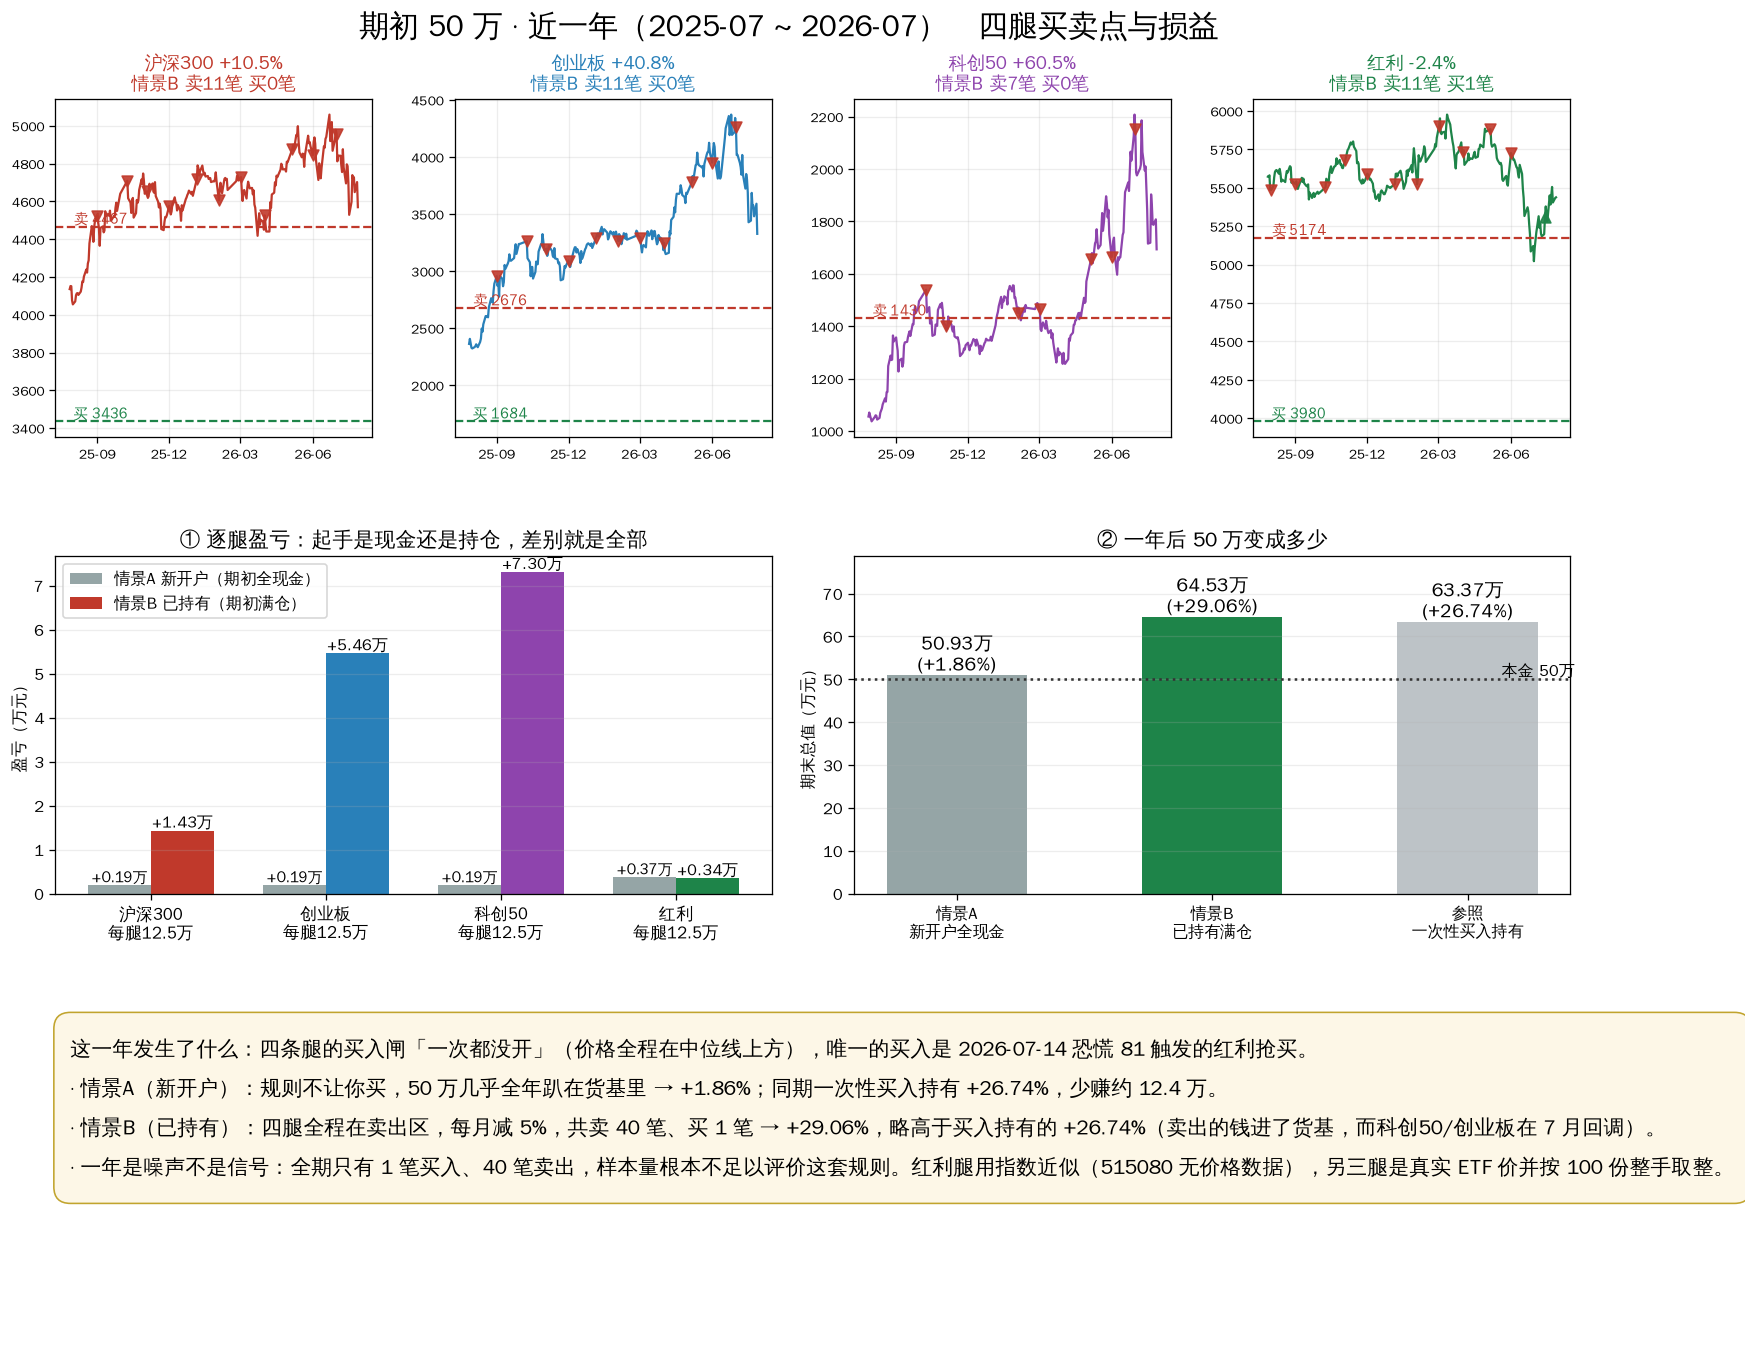
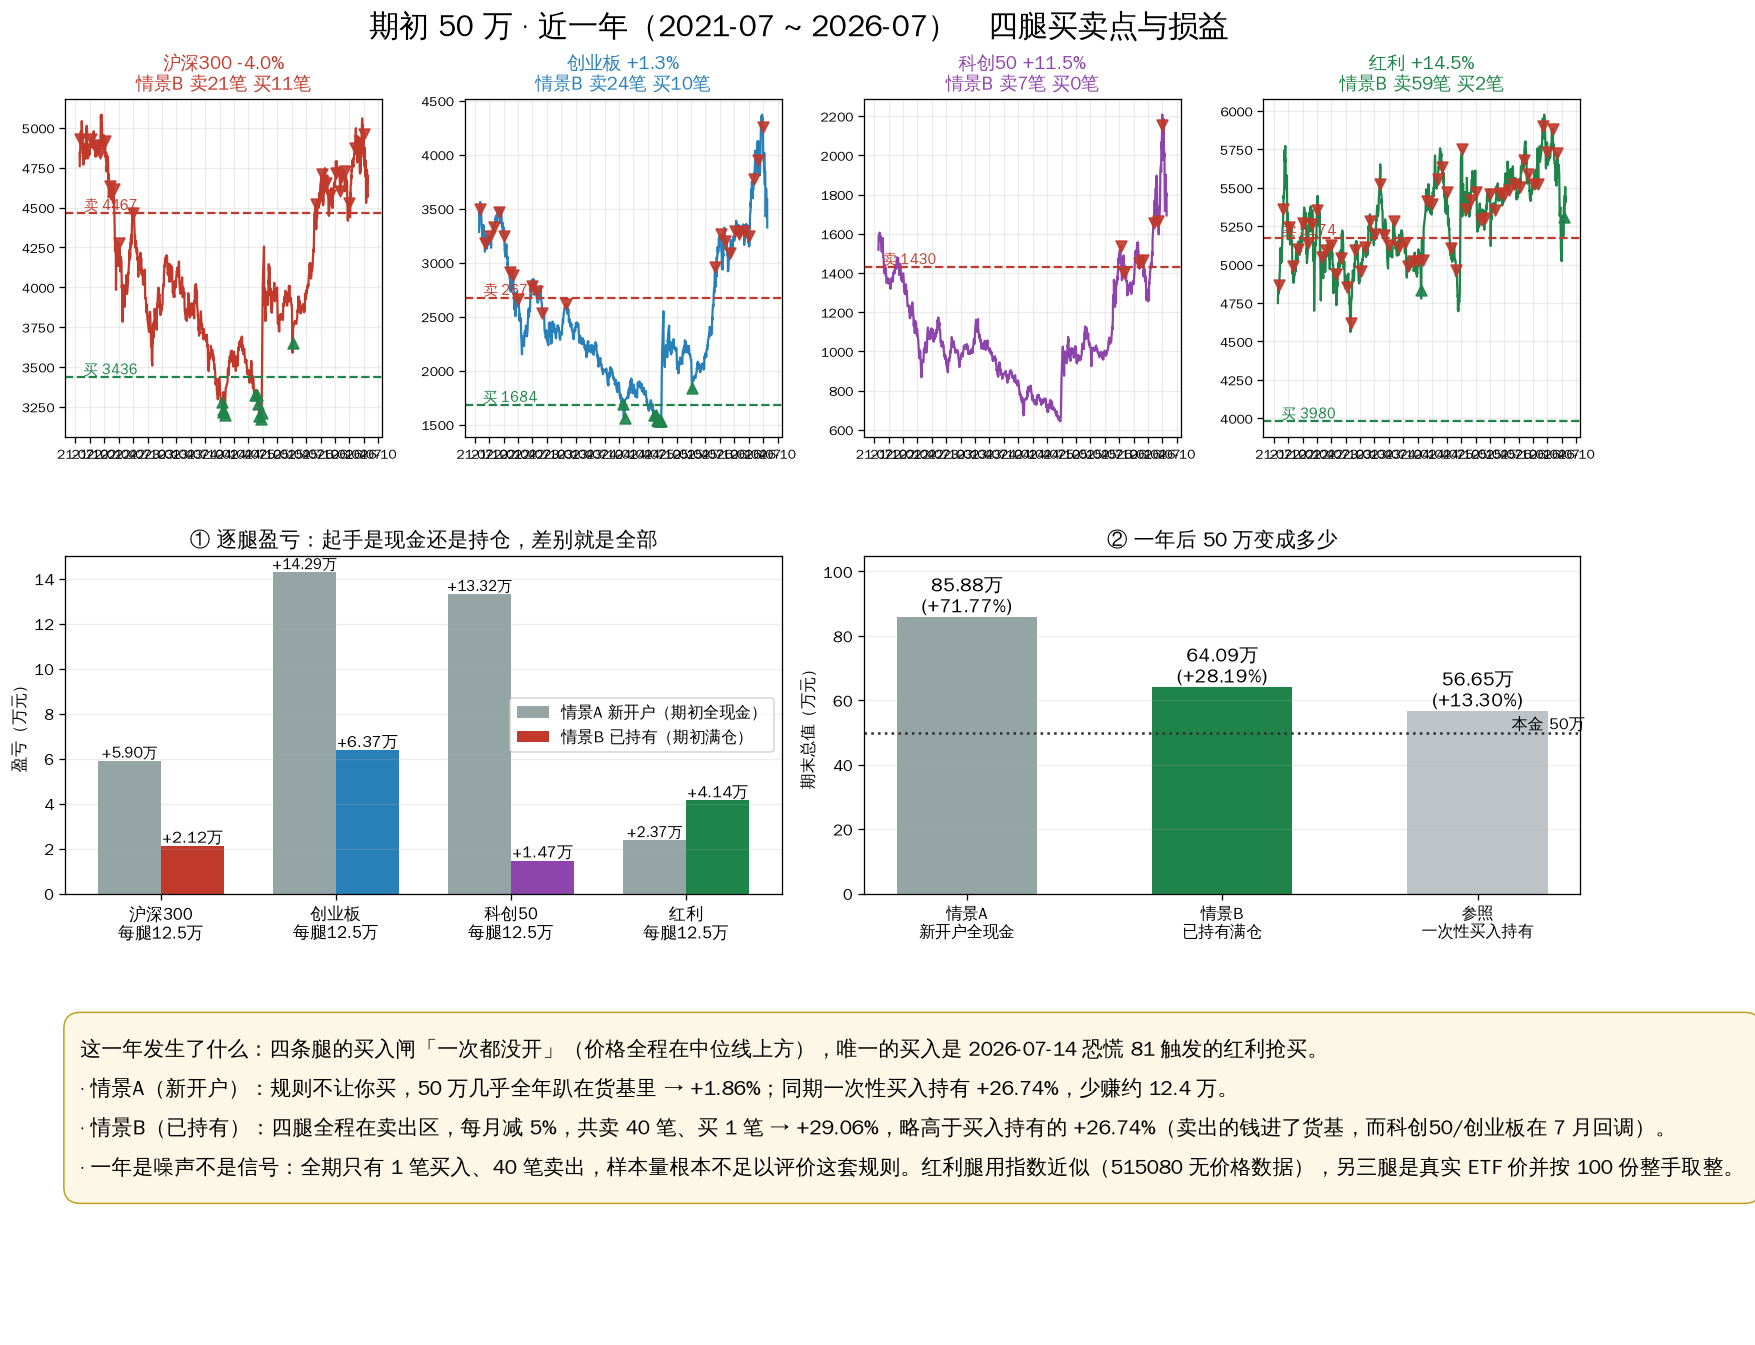
近五年损益：脚本通用化 + 资金曲线 + 分年 + 起点敏感性
owner「画一下近五年的图，算一下近五年策略收益，还是期初 50 万空仓」。
one_year_pnl.py → pnl_window.py（--months 通用），新增组合资金曲线、分年收益表、
起点敏感性；出图 results/pnl_5y.png。

近五年（20210728~20260728）期初 50 万空仓：
- 情景A 空仓起手 85.88 万 +71.77%（年化 11.4%）
- 情景B 满仓起手 64.09 万 +28.19%（年化 5.1%）
- 一次性买入持有 56.65 万 +13.30%（年化 2.5%）
成交 85 笔，买入集中在 2024-01/02（含 20240123 恐慌 78 的创业板单笔 6.49 万）
与 2024-08/09。

分年（情景A vs 买持）：2021 +0.6/+1.8｜2022 +1.5/−20.0｜2023 +1.6/−7.1｜
2024 +21.1/+16.2｜2025 +26.9/+21.5｜2026至7月 +7.7/+6.6。

必须并记的两条诚实读数：
① 起点敏感性——3/4/5 年窗口 A 空仓分别 +66.8%/+69.3%/+71.8%，绝对收益几乎不变，
   说明往前多加的 1~2 年只贡献了货基利息，全部收益来自 2024-01 抄底及其后持有，
   有效样本实质是 1 个 episode。
② 与近一年结论方向相反（近一年 A 空仓 +1.86% 远低于 B 满仓 +29.06%）——
   不是策略变好变坏，是起点落在周期哪个位置。与 V1 回归结论一致：
   超额是买入持有强度的函数（本窗买持年化仅 2.5%，落在超额高的区间）。

另记一条数据边界：用真实 ETF 价的四腿组合可回测起点最早 20201116（588000 上市日），
最长窗口约 5.7 年；72 个月以上窗口因此跑不出来，这本身印证 V2 的可得性发现。

Claude-Session: https://claude.ai/code/session_01FN6Uq28z4oa3Sfy64qdYxy

diff --git a/scripts/analysis/pnl_window.py b/scripts/analysis/pnl_window.py
@@ -1,5 +1,5 @@
 # -*- coding: utf-8 -*-
-"""期初 50 万 · 近一年实盘化损益（owner 2026-08-04）
+"""期初 N 万 · 任意回看窗口的实盘化损益（owner 2026-08-04，--months 可调）
 
 与回测脚本的区别——这里**尽量贴实盘**：
   · 三腿用**真实 ETF 收盘价**（510300 / 159915 / 588000，来自 results/fund_close_dump.csv）
@@ -7,7 +7,10 @@
   · 闲置现金按货基 1.5%/年（V2 实测近三年真实档位，比回测常用的 2% 保守）。
   · 信号次日收盘成交（exec_lag=1），与生产口径一致。
 
-两个情景必须并报——**这一年的结果几乎完全由起手状态决定**：
+两个情景必须并报——**短窗结果几乎完全由起手状态决定，且方向会随窗口翻转**：
+  近 12 个月：空仓起手 +1.86% vs 满仓起手 +29.06%（买入闸全年没开）
+  近 60 个月：空仓起手 +71.77% vs 满仓起手 +28.19%（2024-01 抄在底部）
+这不是策略变好变坏，是起点落在周期的哪个位置。
   A 新开户：期初 50 万全现金
   B 已持有：期初已按四腿满仓（承接既有持仓）
 
@@ -187,7 +190,19 @@ def main() -> None:
             r = run_leg(d, None, px, fmap, nm, start, end, MODE[nm], c0, shares0=s0)
             tot_v += r["value"]; tot_tr += [{"腿": nm, **t} for t in r["trades"]]
             rows.append((nm, r))
-        SC[scen[0]] = dict(rows=rows, trades=tot_tr, total=tot_v)
+        # 组合资金曲线：各腿按共同日历对齐，缺失日用该腿最近可得值（腿间日历差 ≤2 天）
+        ser = {nm: pd.Series(r["curve"], index=list(r["dates"])) for nm, r in rows}
+        cal = sorted(set().union(*[set(x.index) for x in ser.values()]))
+        eq = []
+        for dd_ in cal:
+            v = 0.0
+            for nm in ser:
+                x = ser[nm]
+                v += float(x[dd_]) if dd_ in x.index else float(
+                    x[x.index <= dd_].iloc[-1] if (x.index <= dd_).any() else x.iloc[0])
+            eq.append(v)
+        SC[scen[0]] = dict(rows=rows, trades=tot_tr, total=tot_v,
+                           cal=cal, eq=np.array(eq))
         for nm, r in rows:
             pnl = r["value"] - per
             print(f"  {nm:8s}({ETF_NAME[nm]})  期末 {r['value']:>10,.0f} 元  "
@@ -215,31 +230,61 @@ def main() -> None:
         tot += per * r
         print(f"  {nm:8s} {r - 1:+7.2%}" + ("（全收益口径含分红）" if nm == "红利" else ""))
     print(f"  {'合计':8s} 期末 {tot:,.0f} 元　盈亏 {tot - a.capital:+,.0f}（**{tot / a.capital - 1:+.2%}**）")
+
+    # 买入持有资金曲线（同一日历）
+    calA = SC["A"]["cal"]
+    bh_eq = np.zeros(len(calA))
+    for nm in legs:
+        d = legs[nm]["d"]
+        base = (d["c_tr"].ffill() if "c_tr" in d.columns and d["c_tr"].notna().any() else d["c"])
+        sr = pd.Series(base.values, index=d.trade_date.values).ffill()
+        i0v = float(sr[sr.index >= start].iloc[0])
+        for j, dd_ in enumerate(calA):
+            v = sr[sr.index <= dd_]
+            bh_eq[j] += per * (float(v.iloc[-1]) / i0v if len(v) else 1.0)
+
+    # 分年收益
+    print(f"\n{'=' * 104}\n分年收益（情景A 空仓起手 vs 买入持有）\n{'=' * 104}")
+    ea = pd.Series(SC["A"]["eq"], index=calA)
+    eb = pd.Series(bh_eq, index=calA)
+    yrs_ = sorted({x[:4] for x in calA})
+    print(f"  {'年份':>8s}{'情景A 期末':>14s}{'当年收益':>10s}{'买入持有':>10s}{'差':>9s}")
+    for y in yrs_:
+        m_ = [x for x in calA if x[:4] == y]
+        if len(m_) < 5:
+            continue
+        p0a = float(ea[ea.index < m_[0]].iloc[-1]) if (ea.index < m_[0]).any() else float(ea.iloc[0])
+        p0b = float(eb[eb.index < m_[0]].iloc[-1]) if (eb.index < m_[0]).any() else float(eb.iloc[0])
+        ra = float(ea[m_[-1]]) / p0a - 1
+        rb = float(eb[m_[-1]]) / p0b - 1
+        print(f"  {y:>8s}{float(ea[m_[-1]]):>14,.0f}{ra:>10.2%}{rb:>10.2%}{(ra - rb) * 100:>+8.1f}pp")
+
+    _chart(SC, legs, start, end, per, a.capital, tot, calA, bh_eq)
     print(f"\n  数据源：" + "；".join(f"{nm}={legs[nm]['src']}" for nm in legs))
-    _chart(SC, legs, start, end, per, a.capital, tot, Path(a.data))
 
 
-def _chart(SC, legs, start, end, per, capital, bh_total, outd):
-    fig = plt.figure(figsize=(17, 13.5))
-    gs = fig.add_gridspec(3, 4, height_ratios=[1, 1, 0.95], hspace=0.36, wspace=0.26, top=0.905)
-    fig.suptitle(f"期初 {capital/10000:.0f} 万 · 近一年（{start[:4]}-{start[4:6]} ~ {end[:4]}-{end[4:6]}）"
-                 f"　四腿买卖点与损益", fontsize=19, weight="bold", y=0.962)
+def _chart(SC, legs, start, end, per, capital, bh_total, calA, bh_eq):
+    yrs = (pd.Timestamp(end) - pd.Timestamp(start)).days / 365.25
+    fig = plt.figure(figsize=(17.5, 15))
+    gs = fig.add_gridspec(3, 4, height_ratios=[0.95, 1.15, 0.85], hspace=0.34,
+                          wspace=0.26, top=0.905)
+    fig.suptitle(f"期初 {capital/10000:.0f} 万空仓起手 · 近 {yrs:.1f} 年"
+                 f"（{start[:4]}-{start[4:6]} ~ {end[:4]}-{end[4:6]}）　四腿买卖点与损益",
+                 fontsize=19, weight="bold", y=0.958)
 
-    tr = pd.DataFrame(SC["B"]["trades"])
+    tr = pd.DataFrame(SC["A"]["trades"])
+    import matplotlib.dates as mdates
     for k, nm in enumerate(legs):
-        ax = fig.add_subplot(gs[k // 4 if False else 0, k])
-        d, px = legs[nm]["d"], legs[nm]["px"]
+        ax = fig.add_subplot(gs[0, k])
+        d = legs[nm]["d"]
         m = (d.trade_date >= start) & (d.trade_date <= end)
         t = pd.to_datetime(d.trade_date[m])
-        ax.plot(t, d.c[m], lw=1.4, color=COL[nm])
+        ax.plot(t, d.c[m], lw=1.2, color=COL[nm])
         exp = float(d.exp[m].iloc[-1])
-        bl = exp * (0.90 if nm == "创业板" else 1.0)
         sl = exp * (1.43 if nm == "创业板" else 1.30)
-        ax.axhline(sl, color="#c0392b", ls="--", lw=1.4)
-        ax.text(t.iloc[0], sl, f" 卖 {sl:.0f}", color="#c0392b", fontsize=9, va="bottom")
+        ax.axhline(sl, color="#c0392b", ls="--", lw=1.3)
         if nm != "科创50":
-            ax.axhline(bl, color="#1e8449", ls="--", lw=1.4)
-            ax.text(t.iloc[0], bl, f" 买 {bl:.0f}", color="#1e8449", fontsize=9, va="bottom")
+            ax.axhline(exp * (0.90 if nm == "创业板" else 1.0), color="#1e8449", ls="--", lw=1.3)
         sub = tr[tr["腿"] == nm] if len(tr) else pd.DataFrame()
         if len(sub):
             idx = d.set_index("trade_date")
@@ -247,66 +292,86 @@ def _chart(SC, legs, start, end, per, capital, bh_total, outd):
                 if x["日期"] not in idx.index:
                     continue
                 y = float(idx.loc[x["日期"], "c"])
-                ax.scatter(pd.Timestamp(x["日期"]), y, s=46,
-                           marker=("v" if x["方向"] == "卖" else "^"),
-                           color=("#c0392b" if x["方向"] == "卖" else "#1e8449"),
-                           zorder=5, alpha=.9)
+                buy = x["方向"] == "买"
+                ax.scatter(pd.Timestamp(x["日期"]), y,
+                           s=(np.clip(x["金额"] / 700, 18, 190) if buy else 24),
+                           marker=("^" if buy else "v"),
+                           color=("#1e8449" if buy else "#c0392b"), zorder=5, alpha=.85)
         nb = int((sub["方向"] == "买").sum()) if len(sub) else 0
         ns = int((sub["方向"] == "卖").sum()) if len(sub) else 0
-        r0 = float(d.c[m].iloc[0]); r1 = float(d.c[m].iloc[-1])
-        ax.set_title(f"{nm} {r1/r0-1:+.1%}\n情景B 卖{ns}笔 买{nb}笔", fontsize=11.5,
+        r0, r1 = float(d.c[m].iloc[0]), float(d.c[m].iloc[-1])
+        ax.set_title(f"{nm} 指数 {r1/r0-1:+.1%}\n买{nb}笔 卖{ns}笔", fontsize=11.5,
                      weight="bold", color=COL[nm])
         ax.grid(alpha=.22); ax.tick_params(labelsize=8.5)
-        import matplotlib.dates as mdates
-        ax.xaxis.set_major_locator(mdates.MonthLocator(interval=3))
-        ax.xaxis.set_major_formatter(mdates.DateFormatter("%y-%m"))
+        ax.xaxis.set_major_locator(mdates.YearLocator())
+        ax.xaxis.set_major_formatter(mdates.DateFormatter("%y"))
 
-    # 逐腿损益对比
-    ax = fig.add_subplot(gs[1, :2])
-    names = list(legs); x = np.arange(len(names)); w = 0.36
-    va = [SC["A"]["rows"][i][1]["value"] - per for i in range(len(names))]
-    vb = [SC["B"]["rows"][i][1]["value"] - per for i in range(len(names))]
-    ax.bar(x - w/2, np.array(va)/10000, w, color="#95a5a6", label="情景A 新开户（期初全现金）")
-    ax.bar(x + w/2, np.array(vb)/10000, w, color=[COL[n] for n in names], label="情景B 已持有（期初满仓）")
-    for i,(p_,q_) in enumerate(zip(va, vb)):
-        ax.text(i-w/2, p_/10000, f"{p_/10000:+.2f}万", ha="center", va="bottom", fontsize=9.5)
-        ax.text(i+w/2, q_/10000, f"{q_/10000:+.2f}万", ha="center", va="bottom", fontsize=10, weight="bold")
-    ax.set_xticks(x); ax.set_xticklabels([f"{n}\n每腿{per/10000:.1f}万" for n in names], fontsize=10.5)
-    ax.set_ylabel("盈亏（万元）"); ax.legend(fontsize=10); ax.grid(alpha=.22, axis="y")
-    ax.set_title("① 逐腿盈亏：起手是现金还是持仓，差别就是全部", fontsize=13, weight="bold")
+    # ① 资金曲线（这张是五年窗口的主角）
+    ax = fig.add_subplot(gs[1, :3])
+    tt = pd.to_datetime(calA)
+    ax.plot(tt, SC["A"]["eq"] / 10000, lw=2.6, color="#1e8449",
+            label=f"情景A 空仓起手  {SC['A']['total']/10000:.1f}万（{SC['A']['total']/capital-1:+.1%}）")
+    ax.plot(tt, SC["B"]["eq"] / 10000, lw=1.8, color="#2980b9",
+            label=f"情景B 满仓起手  {SC['B']['total']/10000:.1f}万（{SC['B']['total']/capital-1:+.1%}）")
+    ax.plot(tt, bh_eq / 10000, lw=1.8, color="#95a5a6", ls="--",
+            label=f"一次性买入持有  {bh_total/10000:.1f}万（{bh_total/capital-1:+.1%}）")
+    ax.axhline(capital / 10000, color="#333", ls=":", lw=1.3)
+    # 标注买入密集期
+    if len(tr):
+        b = tr[tr["方向"] == "买"]
+        if len(b):
+            big = b.nlargest(1, "金额").iloc[0]
+            xj = pd.Timestamp(big["日期"])
+            yj = float(pd.Series(SC["A"]["eq"], index=calA)[
+                [x for x in calA if x <= big["日期"]][-1]]) / 10000
+            ax.annotate(f"{big['日期'][:4]}-{big['日期'][4:6]} 恐慌抄底\n单笔最大 {big['金额']/10000:.1f}万",
+                        xy=(xj, yj), xytext=(xj, yj - 14), fontsize=11, ha="center",
+                        arrowprops=dict(arrowstyle="->", color="#1e8449", lw=1.6),
+                        bbox=dict(fc="#eafaf1", ec="#1e8449", alpha=.95))
+    ax.set_ylabel("账户总值（万元）", fontsize=11.5)
+    ax.legend(fontsize=11.5, loc="upper left"); ax.grid(alpha=.25)
+    ax.set_title("① 资金曲线——五年窗口里，空仓起手反而是最大优势", fontsize=13.5, weight="bold")
 
-    # 三口径总收益
-    ax = fig.add_subplot(gs[1, 2:])
-    labs = ["情景A\n新开户全现金", "情景B\n已持有满仓", "参照\n一次性买入持有"]
+    # ② 期末对比
+    ax = fig.add_subplot(gs[1, 3])
+    labs = ["A 空仓", "B 满仓", "买入持有"]
     vals = [SC["A"]["total"], SC["B"]["total"], bh_total]
-    cols = ["#95a5a6", "#1e8449", "#bdc3c7"]
-    b = ax.bar(labs, [v/10000 for v in vals], color=cols, width=.55)
-    ax.axhline(capital/10000, color="#333", ls=":", lw=1.6)
-    ax.text(2.42, capital/10000, f" 本金 {capital/10000:.0f}万", fontsize=10, va="bottom", ha="right")
-    for r_, v in zip(b, vals):
-        ax.text(r_.get_x()+r_.get_width()/2, v/10000, f"{v/10000:.2f}万\n({v/capital-1:+.2%})",
-                ha="center", va="bottom", fontsize=12, weight="bold")
-    ax.set_ylabel("期末总值（万元）"); ax.set_ylim(0, max(vals)/10000*1.22)
-    ax.grid(alpha=.22, axis="y")
-    ax.set_title("② 一年后 50 万变成多少", fontsize=13, weight="bold")
+    b_ = ax.bar(labs, [v / 10000 for v in vals], color=["#1e8449", "#2980b9", "#95a5a6"], width=.6)
+    ax.axhline(capital / 10000, color="#333", ls=":", lw=1.4)
+    for r_, v in zip(b_, vals):
+        ax.text(r_.get_x() + r_.get_width() / 2, v / 10000, f"{v/10000:.1f}万\n{v/capital-1:+.1%}\n"
+                f"年化{(v/capital)**(1/yrs)-1:+.1%}",
+                ha="center", va="bottom", fontsize=11, weight="bold")
+    ax.set_ylim(0, max(vals) / 10000 * 1.32); ax.grid(alpha=.22, axis="y")
+    ax.tick_params(labelsize=10)
+    ax.set_title("② 期末总值", fontsize=13.5, weight="bold")
 
+    # ③ 分年
     ax = fig.add_subplot(gs[2, :])
-    ax.axis("off")
-    txt = (
-        "这一年发生了什么：四条腿的买入闸「一次都没开」（价格全程在中位线上方），"
-        "唯一的买入是 2026-07-14 恐慌 81 触发的红利抢买。\n"
-        "· 情景A（新开户）：规则不让你买，50 万几乎全年趴在货基里 → +1.86%；"
-        "同期一次性买入持有 +26.74%，少赚约 12.4 万。\n"
-        "· 情景B（已持有）：四腿全程在卖出区，每月减 5%，共卖 40 笔、买 1 笔 → +29.06%，"
-        "略高于买入持有的 +26.74%（卖出的钱进了货基，而科创50/创业板在 7 月回调）。\n"
-        "· 一年是噪声不是信号：全期只有 1 笔买入、40 笔卖出，样本量根本不足以评价这套规则。"
-        "红利腿用指数近似（515080 无价格数据），另三腿是真实 ETF 价并按 100 份整手取整。"
-    )
-    ax.text(0.01, 0.95, txt, fontsize=13, va="top", linespacing=1.9,
-            bbox=dict(fc="#fdf6e3", ec="#b7950b", alpha=.85, boxstyle="round,pad=0.8"))
+    ea = pd.Series(SC["A"]["eq"], index=calA); eb = pd.Series(bh_eq, index=calA)
+    ys, ra, rb = [], [], []
+    for y in sorted({x[:4] for x in calA}):
+        mm = [x for x in calA if x[:4] == y]
+        if len(mm) < 5:
+            continue
+        p0a = float(ea[ea.index < mm[0]].iloc[-1]) if (ea.index < mm[0]).any() else float(ea.iloc[0])
+        p0b = float(eb[eb.index < mm[0]].iloc[-1]) if (eb.index < mm[0]).any() else float(eb.iloc[0])
+        ys.append(y); ra.append(float(ea[mm[-1]]) / p0a - 1); rb.append(float(eb[mm[-1]]) / p0b - 1)
+    x = np.arange(len(ys)); w = 0.38
+    ax.bar(x - w/2, np.array(ra) * 100, w, color="#1e8449", label="情景A 空仓起手")
+    ax.bar(x + w/2, np.array(rb) * 100, w, color="#95a5a6", label="一次性买入持有")
+    for i, (u, v) in enumerate(zip(ra, rb)):
+        ax.text(i - w/2, u*100, f"{u:+.1%}", ha="center",
+                va=("bottom" if u >= 0 else "top"), fontsize=10, weight="bold")
+        ax.text(i + w/2, v*100, f"{v:+.1%}", ha="center",
+                va=("bottom" if v >= 0 else "top"), fontsize=9.5, color="#555")
+    ax.axhline(0, color="#333", lw=1)
+    ax.set_xticks(x); ax.set_xticklabels(ys, fontsize=12)
+    ax.set_ylabel("当年收益（%）"); ax.legend(fontsize=11); ax.grid(alpha=.22, axis="y")
+    ax.set_title("③ 分年：策略的钱几乎全是 2024 那一年抄底赚的", fontsize=13.5, weight="bold")
 
-    out = Path("results") / "one_year_pnl.png"
-    fig.savefig(out, dpi=115, bbox_inches="tight")
+    out = Path("results") / "pnl_5y.png"
+    fig.savefig(out, dpi=112, bbox_inches="tight")
     print(f"saved {out}")
 
 
